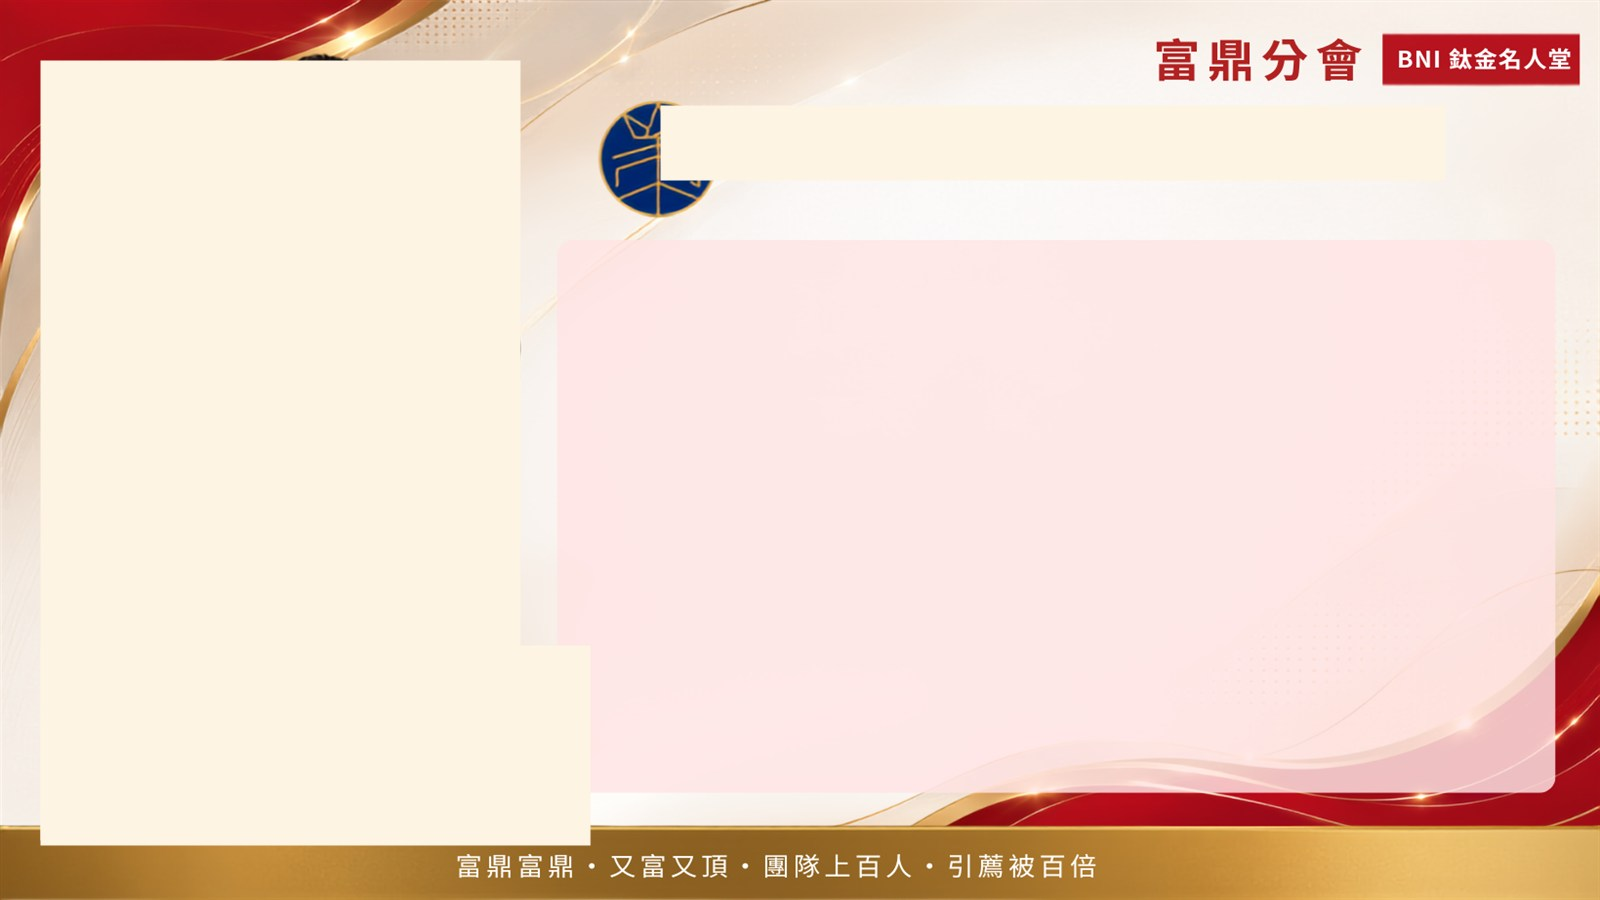
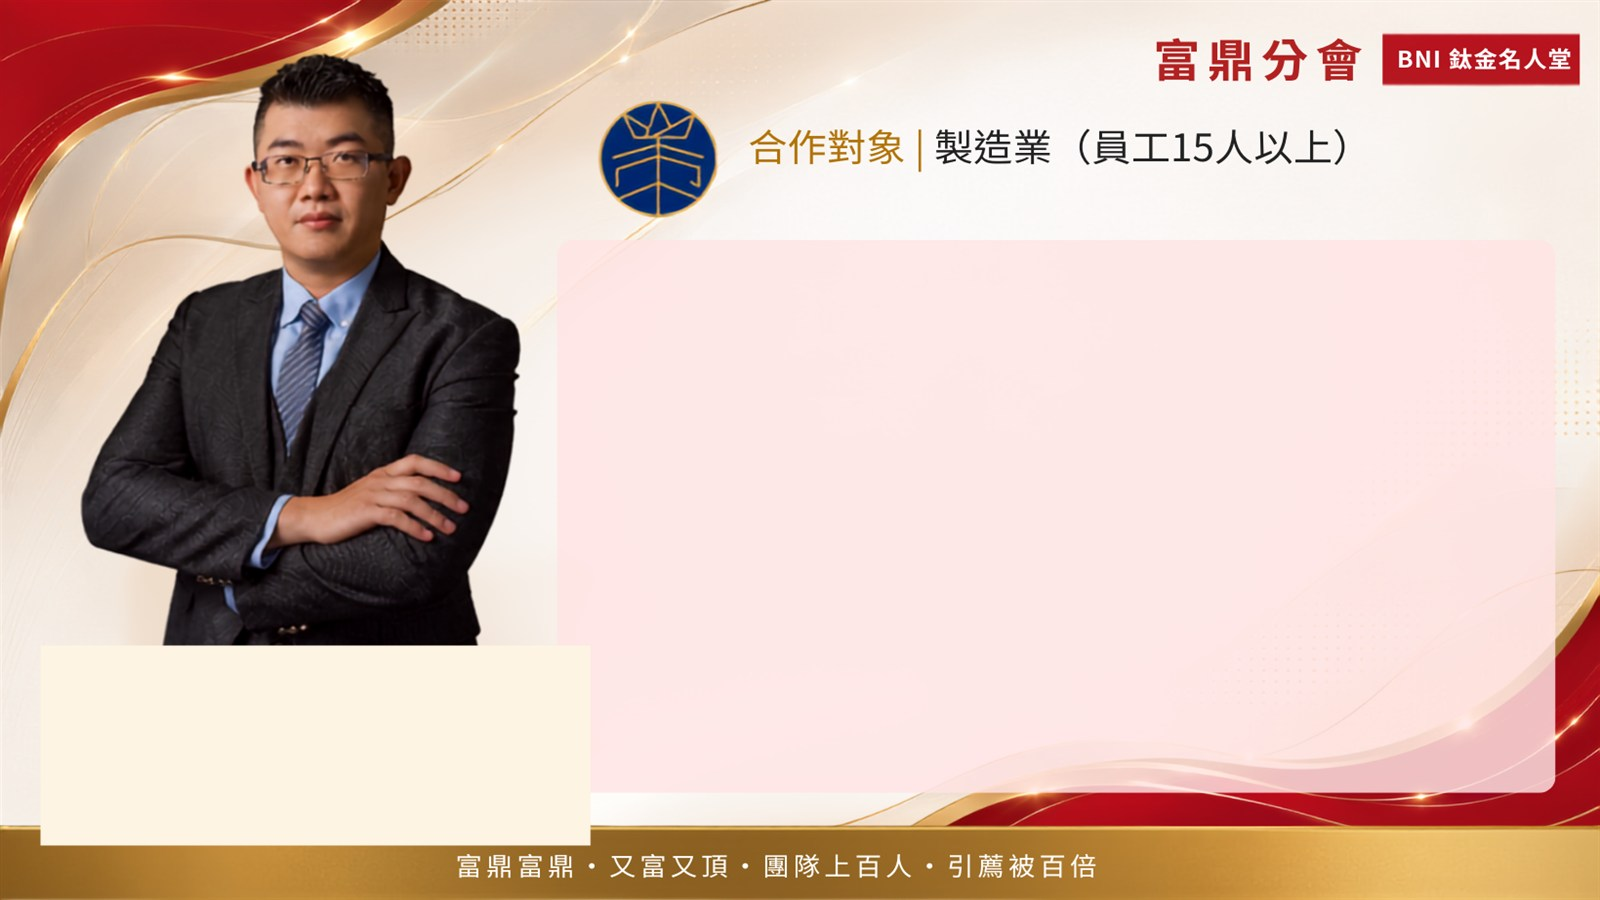
形象頁母片：移除人物與合作對象區的擦除，保留母片原本紅金裝飾
前版擦除人物左邊 (40,60,480,780) 與頂部合作對象 (660,105,785,75)
兩塊區域造成中間出現大塊米色矩形，蓋住母片原本的紅金絲帶裝飾。

本版：
- 不擦除人物區：母片原本的紅金裝飾＋範例人物完整保留，會員上傳的
  去背照片直接疊在上面（若會員無照片，母片範例人物可見）
- 不擦除合作對象區：baked「合作對象|製造業(...)」保留，我的疊字
  以微透明米底覆蓋原文，維持米色設計連貫感
- 僅擦除底部左邊的 pill+name（會員姓名/專業別）

Changed region(s): [[0.0, 0.0622, 0.3438, 0.7156], [0.4062, 0.0933, 0.8438, 0.2178]]

diff --git a/index.html b/index.html
@@ -93,7 +93,7 @@
   #heroMaster .hm-uploadLabel{cursor:pointer;color:#c99a99;font-size:32px;text-align:center;line-height:1.4;padding:20px 30px;border:2px dashed rgba(198,12,48,.35);border-radius:8px;background:rgba(255,255,255,.55);}
   #heroMaster .hm-uploadLabel small{font-size:14px;color:#888;font-weight:600;}
   #heroMaster .hm-upload.filled .hm-uploadLabel{display:none;}
-  #heroMaster .hm-ref{position:absolute;left:465px;top:60px;right:230px;z-index:4;display:flex;align-items:center;gap:10px;font-size:22px;color:#1a1a1a;font-weight:800;}
+  #heroMaster .hm-ref{position:absolute;left:410px;top:70px;right:150px;z-index:4;display:flex;align-items:center;gap:10px;font-size:24px;color:#1a1a1a;font-weight:800;background:rgba(253,244,227,0.92);padding:2px 12px;border-radius:4px;}
   #heroMaster .hm-ref .hm-rlbl{color:#b8933f;flex:0 0 auto;}
   #heroMaster .hm-ref .hm-rsep{color:#b8933f;font-weight:400;}
   #heroMaster .hm-ref .hm-rval{color:#1a1a1a;overflow:hidden;text-overflow:ellipsis;white-space:nowrap;}
@@ -991,14 +991,14 @@
 <!-- Firebase 雲端同步 -->
 <script src="https://www.gstatic.com/firebasejs/10.12.2/firebase-app-compat.js"></script>
 <script src="https://www.gstatic.com/firebasejs/10.12.2/firebase-firestore-compat.js"></script>
-<script src="firebase-config.js?v=43"></script>
-<script src="specialties.js?v=43"></script>
-<script src="members.js?v=43"></script>
-<script src="store.js?v=43"></script>
-<script src="divider-bg.js?v=43"></script>
-<script src="edm-masters.js?v=43"></script>
-<script src="hero-bg.js?v=43"></script>
-<script src="app.js?v=43"></script>
-<script src="roster.js?v=43"></script>
+<script src="firebase-config.js?v=44"></script>
+<script src="specialties.js?v=44"></script>
+<script src="members.js?v=44"></script>
+<script src="store.js?v=44"></script>
+<script src="divider-bg.js?v=44"></script>
+<script src="edm-masters.js?v=44"></script>
+<script src="hero-bg.js?v=44"></script>
+<script src="app.js?v=44"></script>
+<script src="roster.js?v=44"></script>
 </body>
 </html>